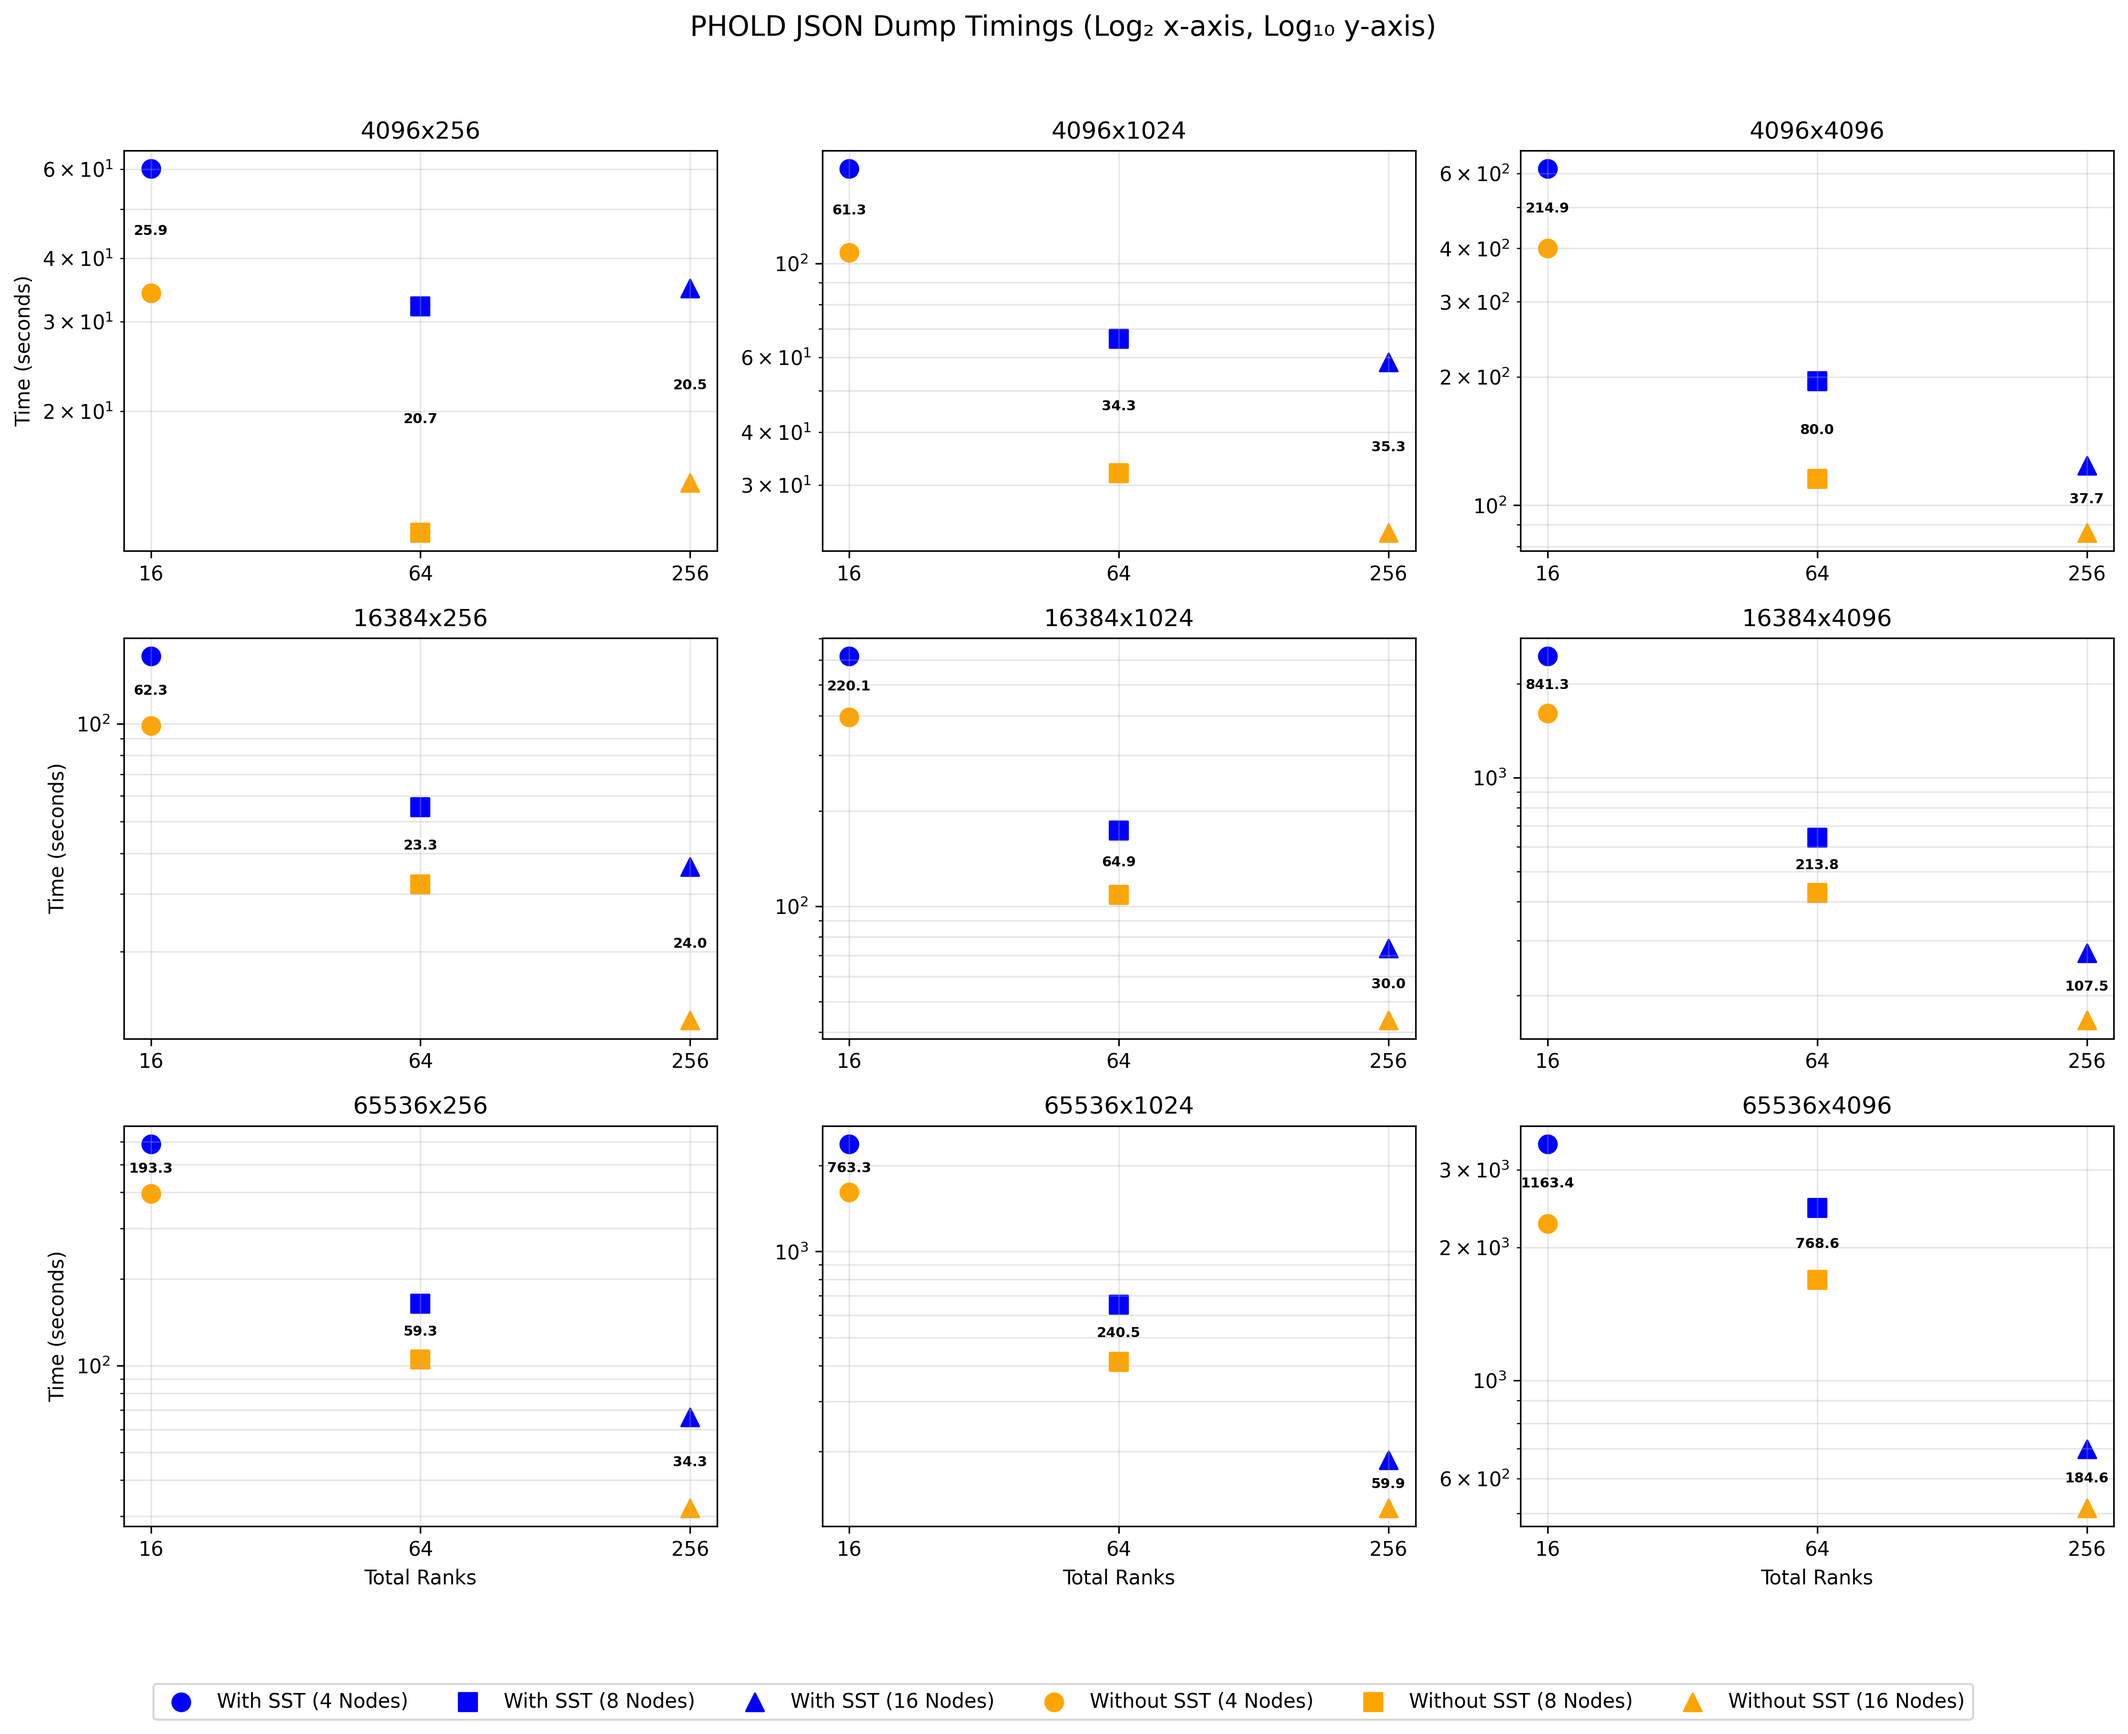
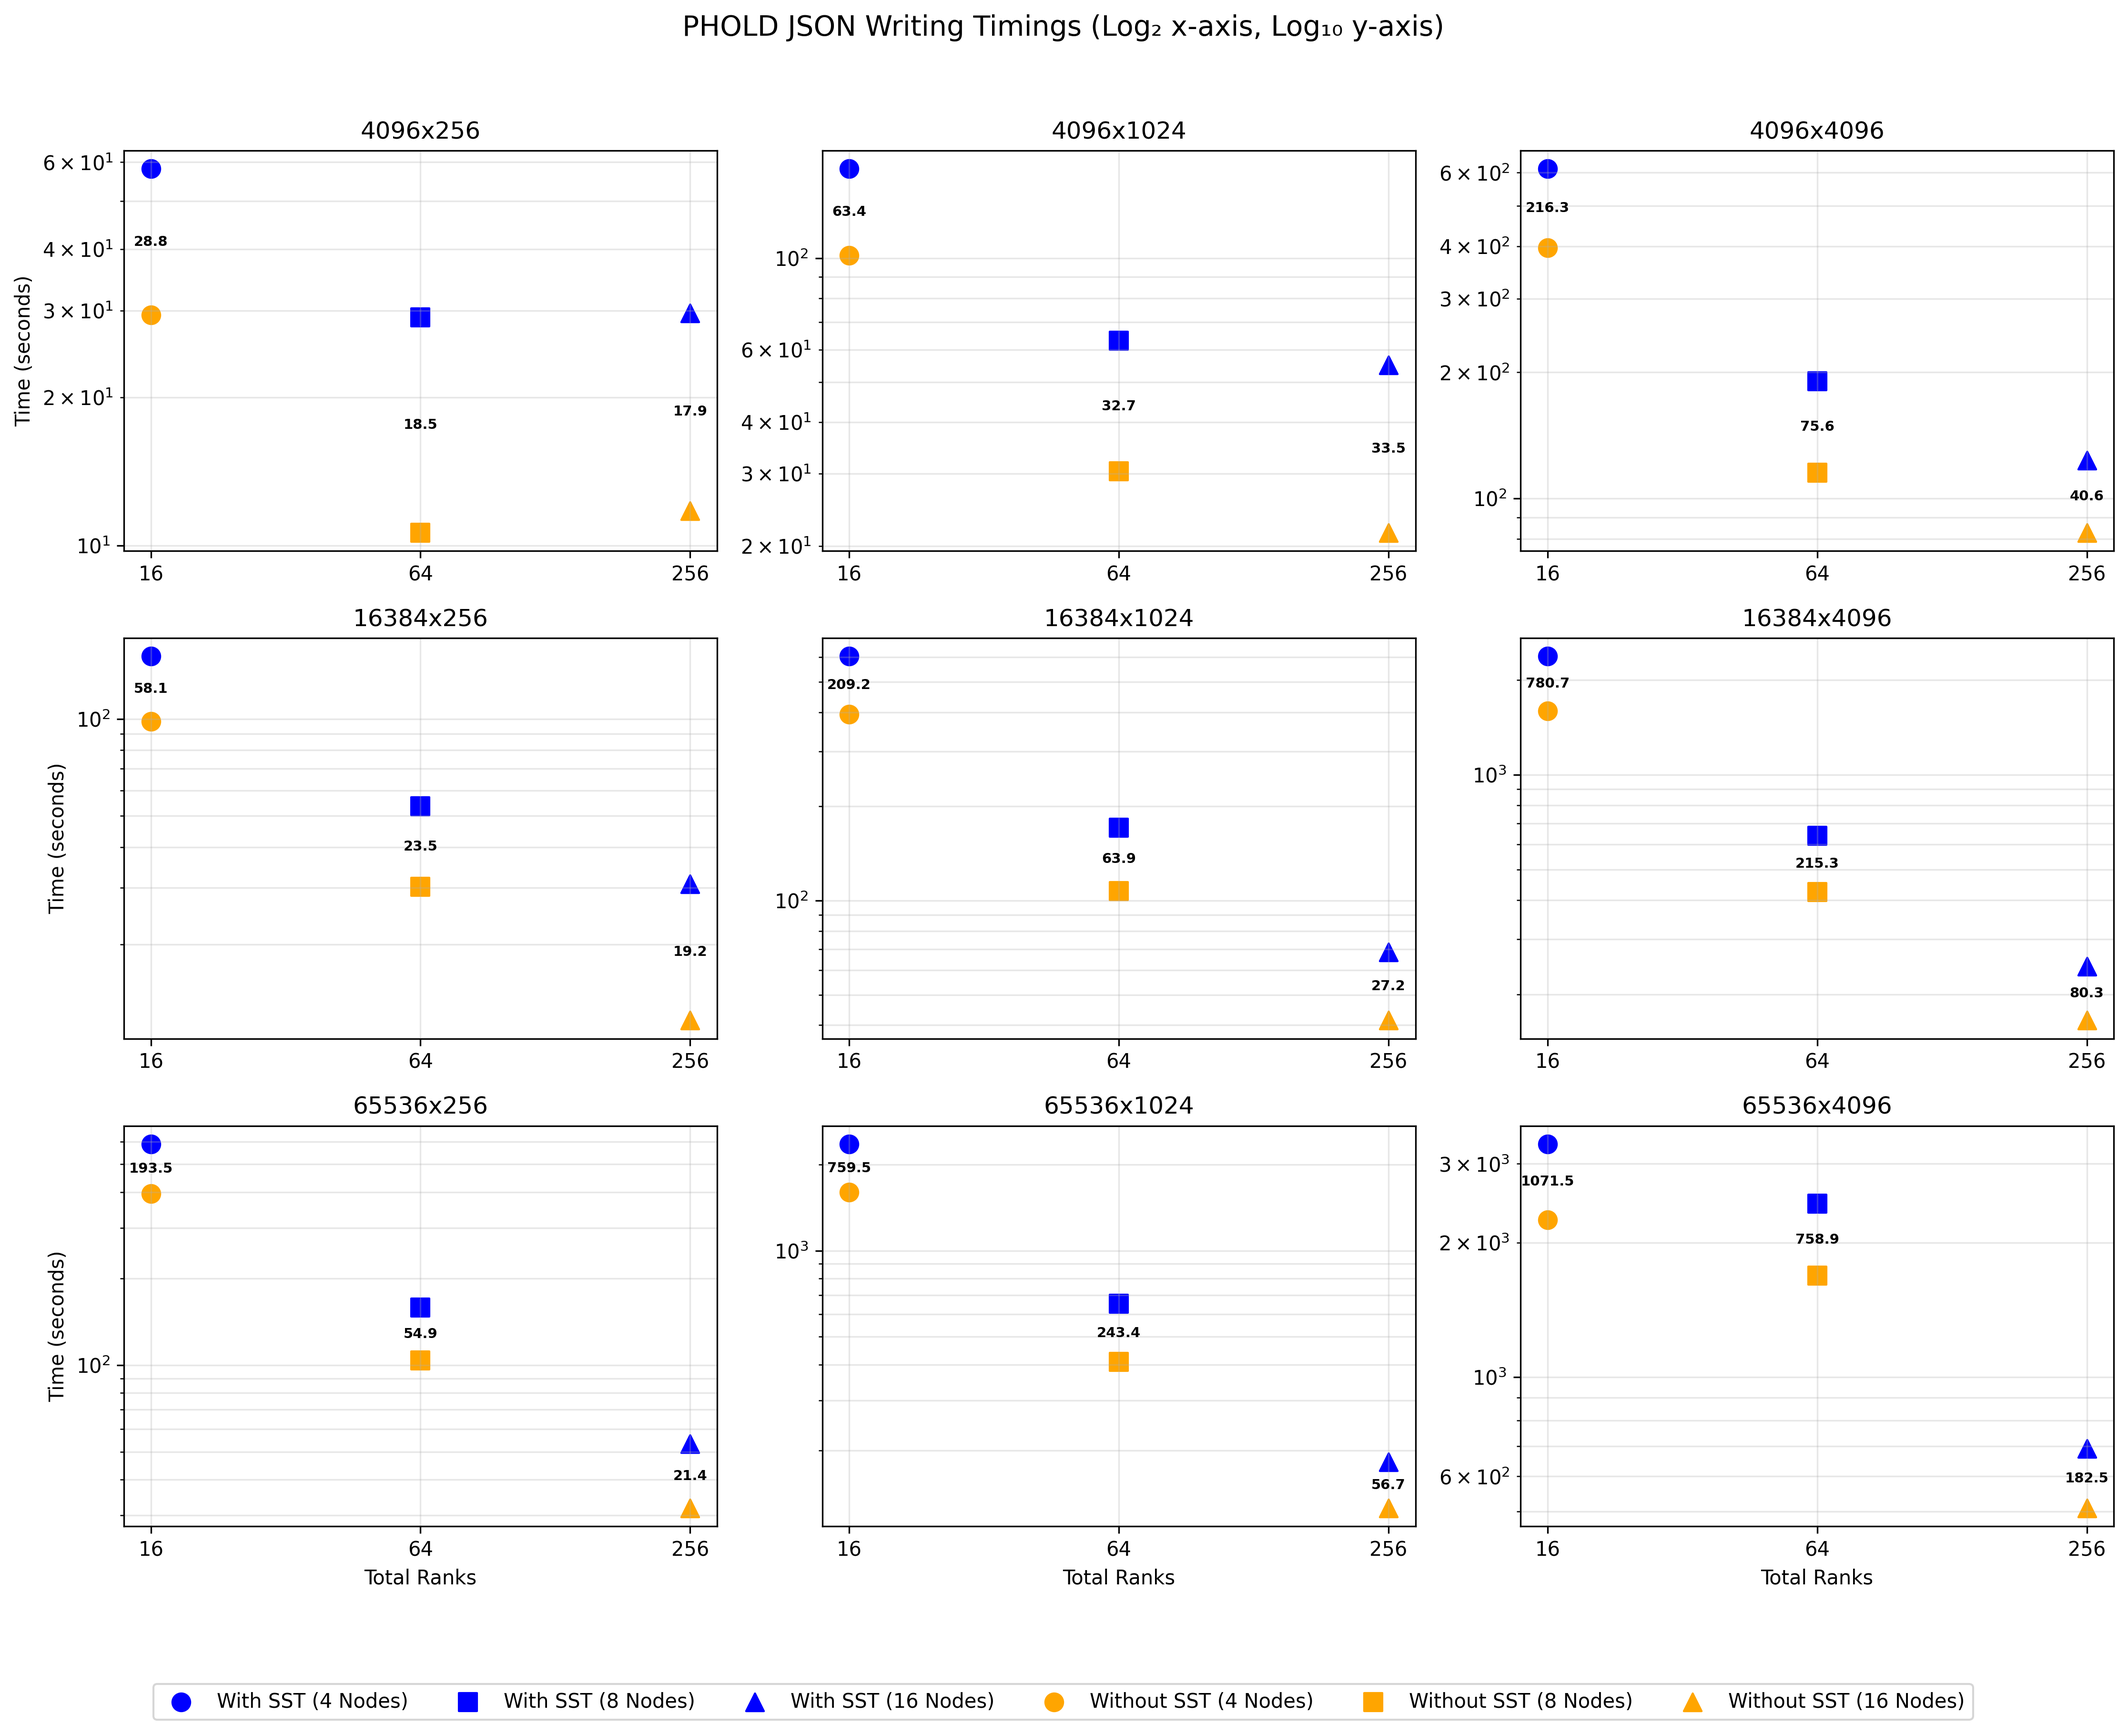
updated analyze timings script

diff --git a/ahp-json-writing/analyze_timings.py b/ahp-json-writing/analyze_timings.py
@@ -135,19 +135,75 @@ def collect_timing_data():
     return data
 
 
+def remove_outliers_iqr(values, k=1.5):
+    """Remove outliers using IQR method and clustering detection.
+    
+    Values outside [Q1 - k*IQR, Q3 + k*IQR] are considered outliers.
+    Also detects bimodal distributions where values are suspiciously low
+    compared to the median (likely failed/incomplete runs).
+    
+    Returns cleaned values and number of outliers removed.
+    """
+    if len(values) < 3:
+        return values, 0
+    
+    arr = np.array(values)
+    
+    # First pass: remove values that are suspiciously low (< 10% of median)
+    # These are likely failed or incomplete runs
+    median = np.median(arr)
+    min_threshold = median * 0.1
+    arr = arr[arr >= min_threshold]
+    
+    if len(arr) < 2:
+        # If too many removed, return original
+        return values, 0
+    
+    # Second pass: IQR-based outlier removal
+    if len(arr) >= 4:
+        q1 = np.percentile(arr, 25)
+        q3 = np.percentile(arr, 75)
+        iqr = q3 - q1
+        
+        lower_bound = q1 - k * iqr
+        upper_bound = q3 + k * iqr
+        
+        cleaned = arr[(arr >= lower_bound) & (arr <= upper_bound)]
+    else:
+        cleaned = arr
+    
+    n_removed = len(values) - len(cleaned)
+    
+    return cleaned.tolist(), n_removed
+
+
 def compute_statistics(data):
-    """Compute mean, min, and max for each configuration."""
+    """Compute mean, min, max, and std for each configuration after removing outliers."""
     stats = {}
+    total_outliers = 0
+    
     for config, timings in data.items():
         stats[config] = {}
         for key, values in timings.items():
             if values:
-                stats[config][key] = {
-                    'mean': np.mean(values),
-                    'min': np.min(values),
-                    'max': np.max(values),
-                    'values': values,
-                }
+                cleaned_values, n_removed = remove_outliers_iqr(values)
+                if n_removed > 0:
+                    print(f"  Removed {n_removed} outlier(s) from {key} for config {config}")
+                    total_outliers += n_removed
+                
+                if cleaned_values:
+                    stats[config][key] = {
+                        'mean': np.mean(cleaned_values),
+                        'std': np.std(cleaned_values),
+                        'min': np.min(cleaned_values),
+                        'max': np.max(cleaned_values),
+                        'values': cleaned_values,
+                        'n_removed': n_removed,
+                    }
+    
+    if total_outliers > 0:
+        print(f"\nTotal outliers removed: {total_outliers}")
+    
     return stats
 
 
@@ -168,6 +224,7 @@ def organize_by_height_width(stats):
             organized[size_key][timing_type][numNodes].append({
                 'total_ranks': total_ranks,
                 'mean': stat['mean'],
+                'std': stat['std'],
                 'min': stat['min'],
                 'max': stat['max'],
             })
@@ -234,8 +291,8 @@ def plot_generation_timings(stats):
             all_x_vals = set()
             
             # Store data for computing differences
-            mpi_data = {}  # {(numNodes, total_ranks): max_value}
-            py_data = {}   # {(numNodes, total_ranks): max_value}
+            mpi_data = {}  # {(numNodes, total_ranks): mean_value}
+            py_data = {}   # {(numNodes, total_ranks): mean_value}
             
             # Plot With SST (gen_mpi) in blue
             if 'gen_mpi' in timing_data:
@@ -248,16 +305,17 @@ def plot_generation_timings(stats):
                     points = sorted(node_data[numNodes], key=lambda p: p['total_ranks'])
                     
                     x_vals = [p['total_ranks'] for p in points]
-                    maxes = [p['max'] for p in points]
+                    means = [p['mean'] for p in points]
                     
                     # Store for difference calculation
-                    for x, m in zip(x_vals, maxes):
+                    for x, m in zip(x_vals, means):
                         mpi_data[(numNodes, x)] = m
                     
                     all_x_vals.update(x_vals)
                     
-                    scatter = ax.scatter(x_vals, maxes, marker=marker, color=sst_color, 
-                              label=f'With SST ({numNodes} Nodes)', s=80)
+                    # Plot scatter points
+                    scatter = ax.scatter(x_vals, means, marker=marker, color=sst_color,
+                                        s=80, label=f'With SST ({numNodes} Nodes)')
                     
                     # Only collect legend entries from first subplot
                     if first_plot:
@@ -275,16 +333,17 @@ def plot_generation_timings(stats):
                     points = sorted(node_data[numNodes], key=lambda p: p['total_ranks'])
                     
                     x_vals = [p['total_ranks'] for p in points]
-                    maxes = [p['max'] for p in points]
+                    means = [p['mean'] for p in points]
                     
                     # Store for difference calculation
-                    for x, m in zip(x_vals, maxes):
+                    for x, m in zip(x_vals, means):
                         py_data[(numNodes, x)] = m
                     
                     all_x_vals.update(x_vals)
                     
-                    scatter = ax.scatter(x_vals, maxes, marker=marker, color=no_sst_color, 
-                              label=f'Without SST ({numNodes} Nodes)', s=80)
+                    # Plot scatter points
+                    scatter = ax.scatter(x_vals, means, marker=marker, color=no_sst_color,
+                                        s=80, label=f'Without SST ({numNodes} Nodes)')
                     
                     # Only collect legend entries from first subplot
                     if first_plot:
@@ -331,7 +390,7 @@ def plot_generation_timings(stats):
                 ax.set_xlabel('Total Ranks')
     
     # Add overarching title
-    fig.suptitle('PHOLD JSON Dump Timings (Log₂ x-axis, Log₁₀ y-axis)', fontsize=14, y=0.98)
+    fig.suptitle('PHOLD JSON Writing Timings (Log₂ x-axis, Log₁₀ y-axis)', fontsize=14, y=0.98)
     
     # Add shared legend at the bottom
     fig.legend(all_handles, all_labels, loc='lower center', ncol=len(all_labels), 
@@ -346,7 +405,7 @@ def plot_generation_timings(stats):
 def print_summary(stats):
     """Print a summary of collected data."""
     print("\n" + "="*80)
-    print("TIMING DATA SUMMARY")
+    print("TIMING DATA SUMMARY (after outlier removal)")
     print("="*80)
     
     for config in sorted(stats.keys()):
@@ -361,10 +420,13 @@ def print_summary(stats):
         
         for timing_type, stat in sorted(stats[config].items()):
             mean_val = stat['mean']
+            std_val = stat['std']
             min_val = stat['min']
             max_val = stat['max']
             n_trials = len(stat['values'])
-            print(f"  {timing_type:12s}: {mean_val:8.3f} s (min: {min_val:.3f}, max: {max_val:.3f}) ({n_trials} trials)")
+            n_removed = stat.get('n_removed', 0)
+            removed_str = f", {n_removed} outliers removed" if n_removed > 0 else ""
+            print(f"  {timing_type:12s}: {mean_val:8.3f} ± {std_val:.3f} s (min: {min_val:.3f}, max: {max_val:.3f}) ({n_trials} trials{removed_str})")
 
 
 def main():
